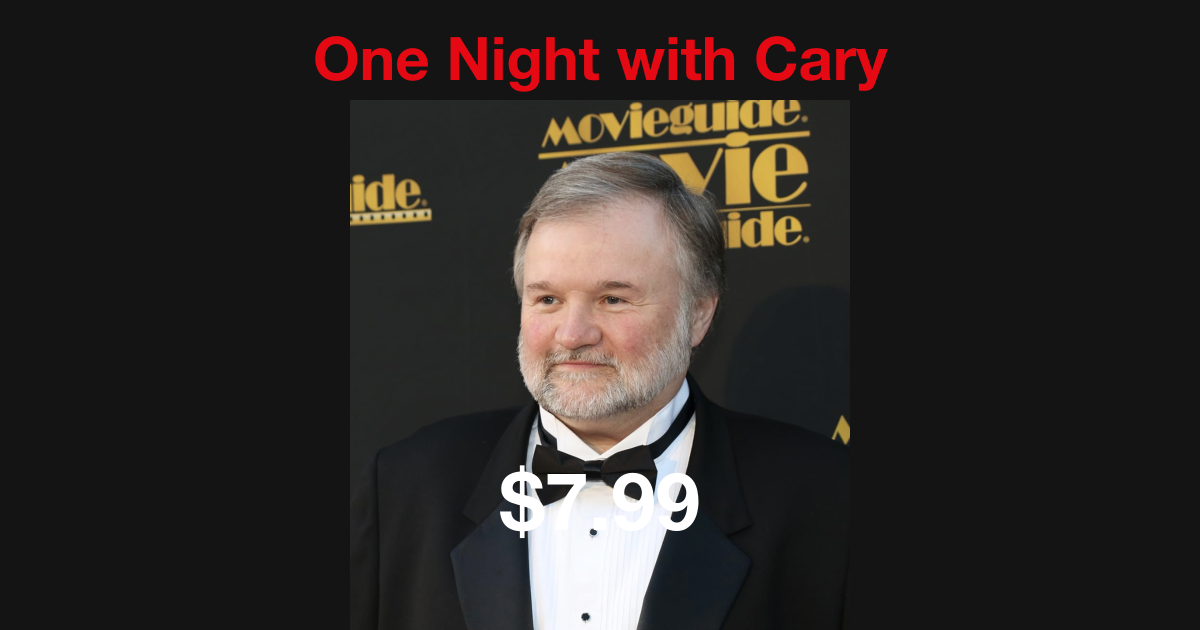
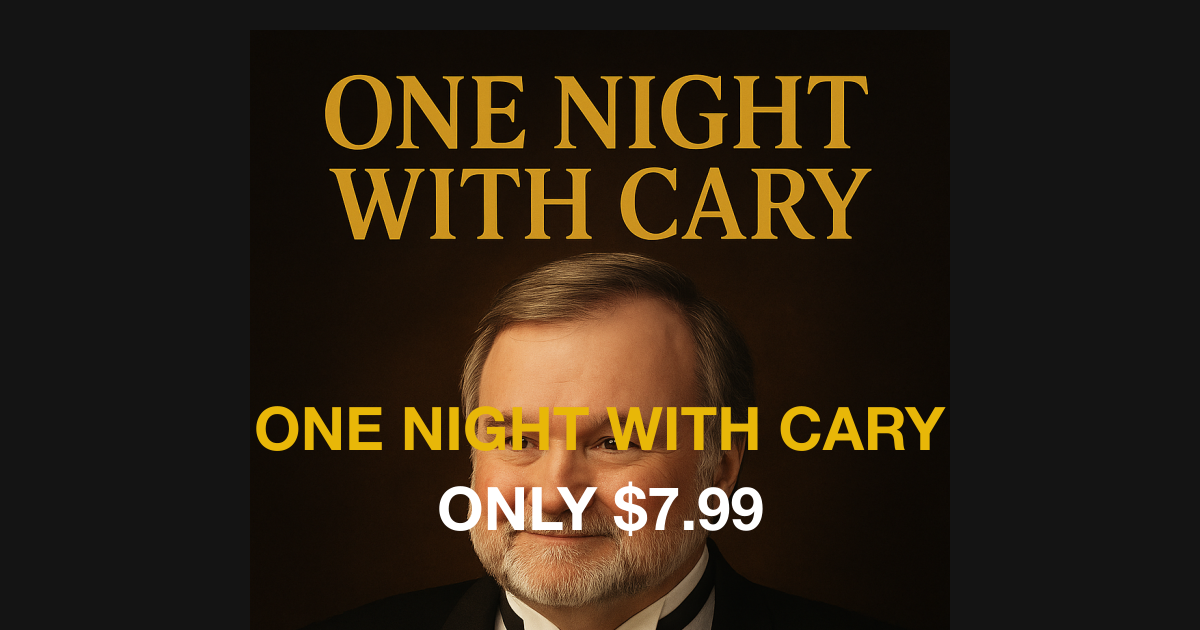
Update landing page and social share image to use cary2.png

diff --git a/src/pages/LandingPage.tsx b/src/pages/LandingPage.tsx
@@ -1,5 +1,6 @@
 import { useNavigate } from 'react-router-dom';
 import styled from 'styled-components';
+import caryImage from '../assets/cary2.png';
 
 const Container = styled.div`
   display: flex;
@@ -10,24 +11,33 @@ const Container = styled.div`
   max-width: 414px; /* iPhone aspect ratio */
   margin: 0 auto;
   padding: 40px 20px;
-  background: linear-gradient(rgba(0, 0, 0, 0.7), rgba(0, 0, 0, 0.7)), 
-              url('https://images.unsplash.com/photo-1574267432553-4b4628081c31?ixlib=rb-1.2.1&auto=format&fit=crop&w=634&q=80');
-  background-size: cover;
-  background-position: center;
+  background-color: var(--netflix-black);
   text-align: center;
+`;
+
+const ImageContainer = styled.div`
+  width: 100%;
+  margin-bottom: 20px;
+`;
+
+const CaryImage = styled.img`
+  width: 100%;
+  height: auto;
+  display: block;
 `;
 
 const Title = styled.h1`
   font-size: 36px;
   font-weight: bold;
-  margin-top: 60px;
+  margin: 20px 0;
   text-shadow: 2px 2px 4px rgba(0, 0, 0, 0.5);
+  color: #e8b708; /* Gold color */
 `;
 
 const Price = styled.div`
   font-size: 48px;
   font-weight: bold;
-  margin: 40px 0;
+  margin: 20px 0;
 `;
 
 const Button = styled.button`
@@ -39,7 +49,7 @@ const Button = styled.button`
   font-weight: bold;
   border-radius: 4px;
   cursor: pointer;
-  margin-bottom: 60px;
+  margin: 30px 0;
   transition: transform 0.2s, background-color 0.2s;
 
   &:hover {
@@ -51,15 +61,18 @@ const Button = styled.button`
 const LandingPage = () => {
   const navigate = useNavigate();
 
-  const handleYesClick = () => {
+  const handleOrderClick = () => {
     navigate('/payment');
   };
 
   return (
     <Container>
+      <ImageContainer>
+        <CaryImage src={caryImage} alt="Cary" />
+      </ImageContainer>
       <Title>Enjoy One Night with Cary</Title>
       <Price>$7.99</Price>
-      <Button onClick={handleYesClick}>Yes</Button>
+      <Button onClick={handleOrderClick}>ORDER NOW</Button>
     </Container>
   );
 };

diff --git a/scripts/generate-social-image.js b/scripts/generate-social-image.js
@@ -20,32 +20,32 @@ async function generateSocialImage() {
   
   try {
     // Load the Cary image
-    const caryImagePath = path.resolve(__dirname, '../src/assets/cary.png');
+    const caryImagePath = path.resolve(__dirname, '../src/assets/cary2.png');
     const image = await loadImage(caryImagePath);
     
     // Calculate image dimensions to maintain aspect ratio
     const imageAspectRatio = image.width / image.height;
-    let imageWidth = 500; // Adjust as needed
+    let imageWidth = 700; // Adjust as needed
     let imageHeight = imageWidth / imageAspectRatio;
     
     // Draw the image
     context.drawImage(
       image,
       (width - imageWidth) / 2,
-      100,
+      30,
       imageWidth,
       imageHeight
     );
     
     // Add text
-    context.fillStyle = '#E50914'; // Netflix red
+    context.fillStyle = '#e8b708'; // Gold color
     context.font = 'bold 60px "Helvetica Neue", Helvetica, Arial, sans-serif';
     context.textAlign = 'center';
-    context.fillText('One Night with Cary', width / 2, 80);
+    context.fillText('ONE NIGHT WITH CARY', width / 2, height - 180);
     
     context.fillStyle = 'white';
-    context.font = 'bold 80px "Helvetica Neue", Helvetica, Arial, sans-serif';
-    context.fillText('$7.99', width / 2, height - 100);
+    context.font = 'bold 60px "Helvetica Neue", Helvetica, Arial, sans-serif';
+    context.fillText('ONLY $7.99', width / 2, height - 100);
     
     // Save the image
     const buffer = canvas.toBuffer('image/png');
